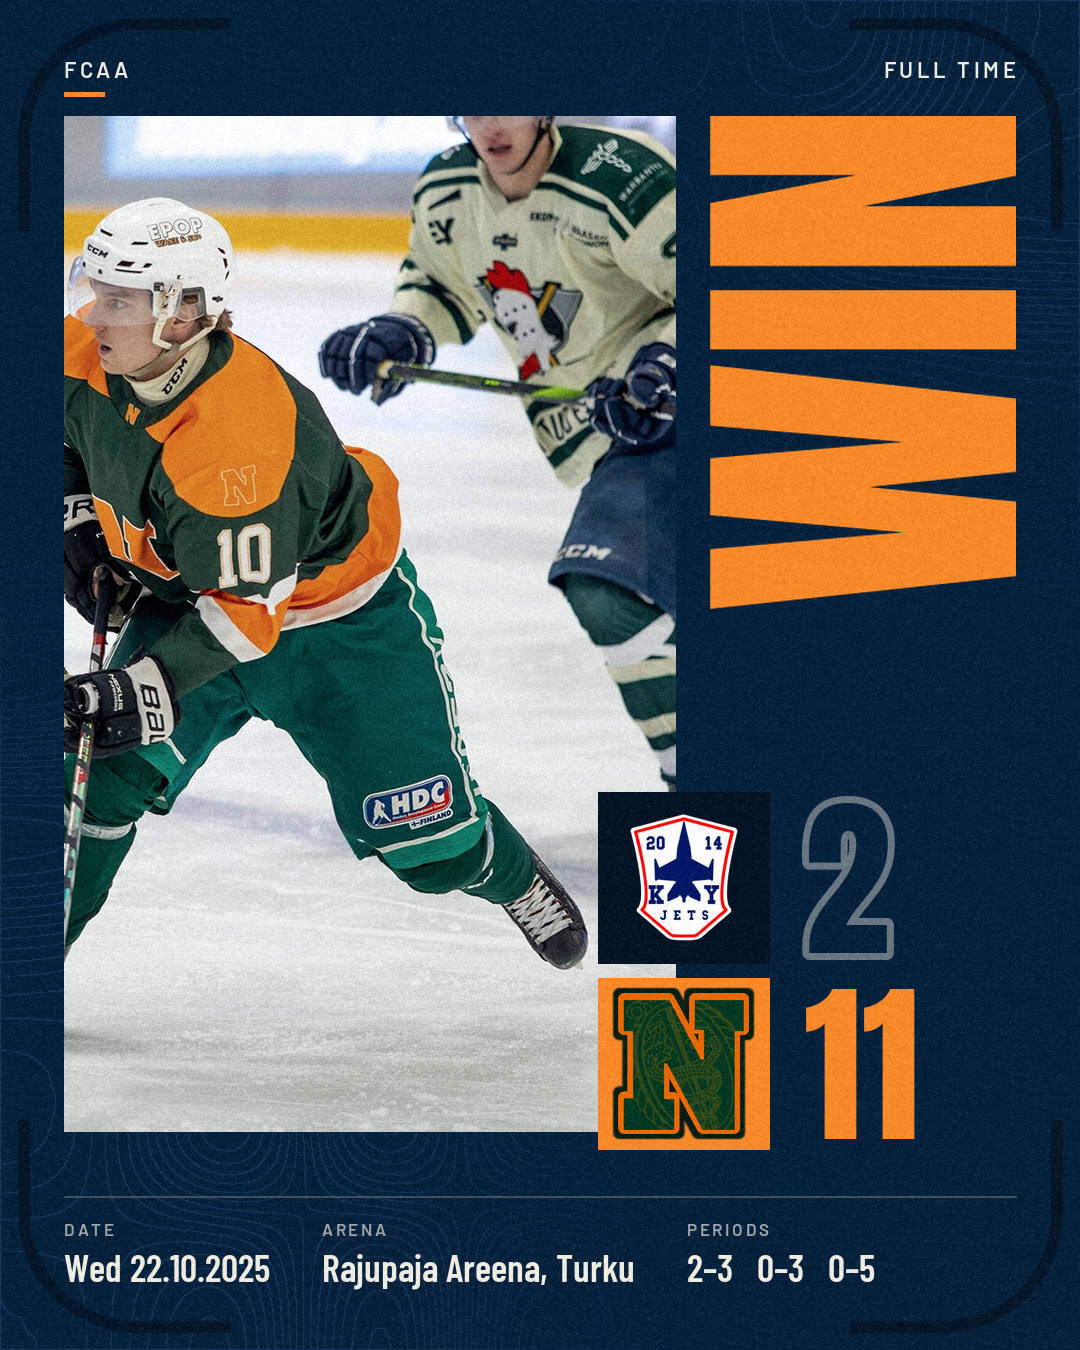
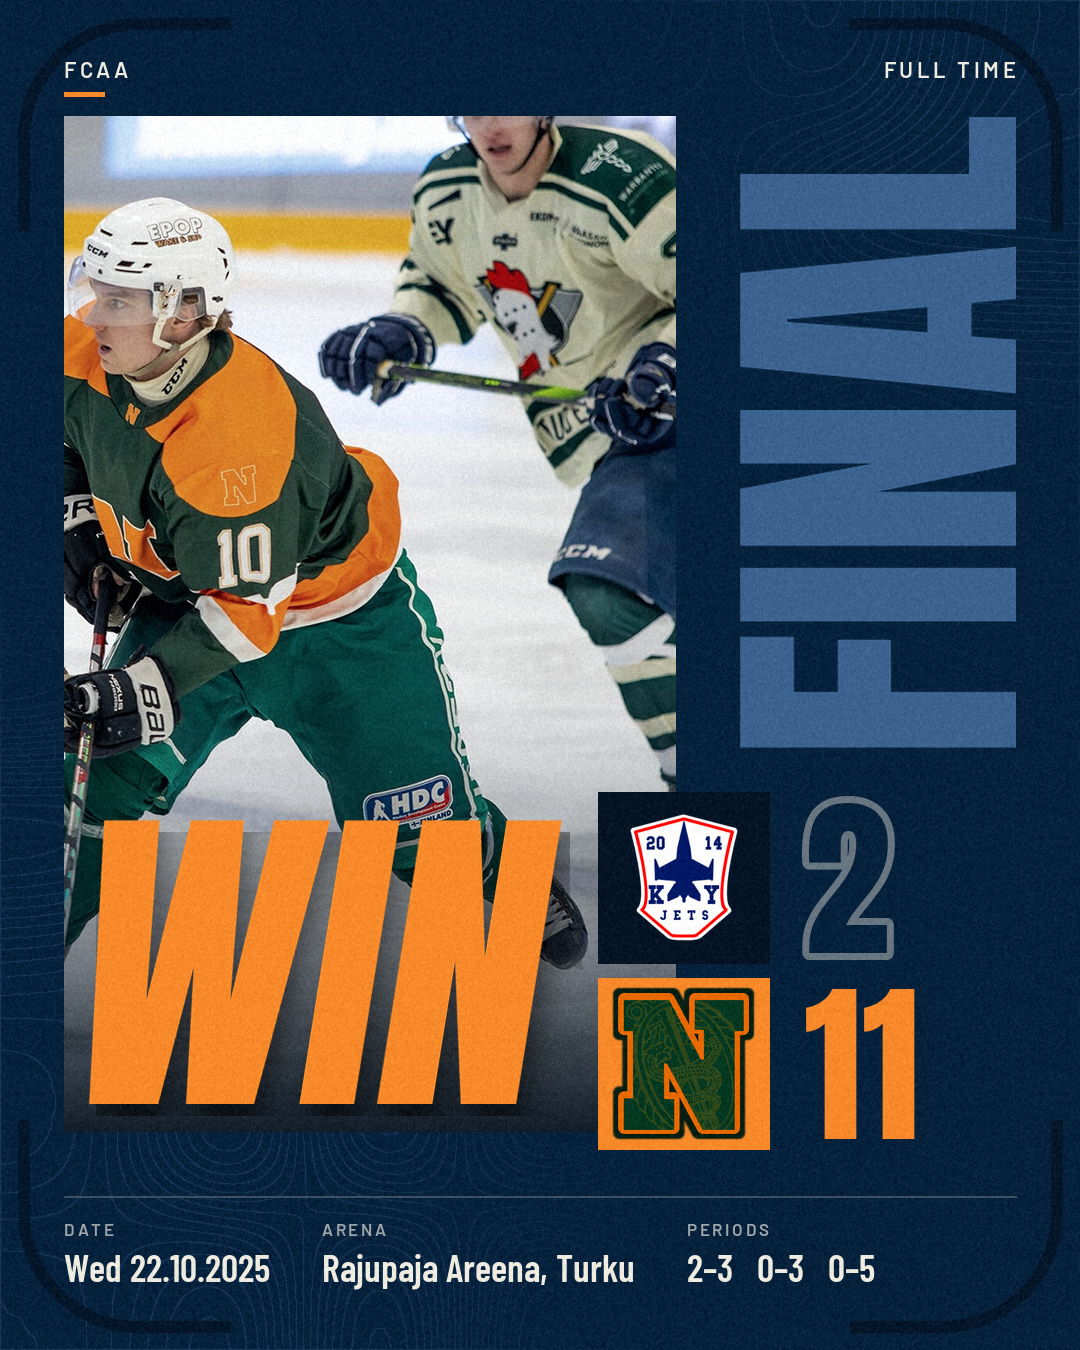
WIN as a big slanted mark across the photo; FINAL stays as the title
Claude-Session: https://claude.ai/code/session_01E3Tk5uwvYhQgExk5yUNRYj

Changed region(s): [[0.6417, 0.0622, 0.9472, 0.56], [0.0611, 0.56, 0.6417, 0.84]]

diff --git a/skills/naadat-game-posts/scripts/render_card.py b/skills/naadat-game-posts/scripts/render_card.py
@@ -16,7 +16,8 @@ Outputs, all 1080x1350 and metadata-free (see clean_image.py):
   always      <out>/photo_credit.txt   the credit of the photo used, nothing else
 
 Look: a club poster. A home game is green, an away game orange (from
-us_side); every FCAA game is FCAA navy. A Näädät win reads WIN, not FINAL.
+us_side); every FCAA game is FCAA navy. A Näädät win adds a big slanted WIN
+across the foot of the photo.
 A graded photo panel on the left, the title set vertically on the
 right, square logo tiles overlapping the photo edge with the scores beside
 them, and a ruled info row at the foot. Anton for display type, Barlow for
@@ -909,6 +910,56 @@ def weekday_title(i, style="short"):
     return (DOW if style == "short" else DOW_LONG)[i]
 
 
+def result_title(img, t, game):
+    """The vertical title: FINAL (+ OT/SO) or LIVE. A Näädät win also gets win_mark."""
+    final = is_final(game)
+    fin = finish_word(game)
+    parts = [("FINAL" if final else "LIVE", t["title"])]
+    if final and fin:
+        parts.append((fin, t["accent"]))
+    vertical_title(img, parts, W - M, PHOTO[1], TILE_Y1 - TITLE_GAP - PHOTO[1], W - M - PHOTO[2] - 34)
+    if final and winner_side(game) == game.get("us_side", "home"):
+        win_mark(img, t)
+
+
+WIN_SKEW = 0.16                      # italic slant of the WIN mark
+
+
+def win_mark(img, t):
+    """A big slanted WIN across the foot of the photo, left of the logo tiles.
+
+    The photo darkens toward its foot so the word reads on bright ice, and the
+    word carries a soft drop shadow."""
+    x0, y0, x1, y1 = PHOTO
+    w, h = x1 - x0, y1 - y0
+    fade = Image.new("L", (w, h), 0)
+    fd = ImageDraw.Draw(fade)
+    reach = 460
+    for i in range(reach):
+        fd.line((0, h - 1 - i, w, h - 1 - i), fill=int(235 * (1 - i / reach) ** 1.3))
+    shade = Image.new("RGBA", (w, h), t["duo_dark"] + (0,))
+    shade.putalpha(fade)
+    img.alpha_composite(shade, (x0, y0))
+
+    f = font("display", 330)
+    l_, t_, r_, b_ = f.getbbox("WIN")
+    pad = 20
+    word = Image.new("RGBA", (r_ - l_ + 2 * pad + int(WIN_SKEW * (b_ - t_)), b_ - t_ + 2 * pad), (0, 0, 0, 0))
+    ImageDraw.Draw(word).text((pad - l_ + int(WIN_SKEW * (b_ - t_)), pad - t_), "WIN", font=f,
+                              fill=t["accent"] + (255,))
+    word = word.transform(word.size, Image.AFFINE, (1, WIN_SKEW, 0, 0, 1, 0), Image.BICUBIC)
+    word = word.crop(word.getbbox())
+    max_w = TILE_X - 24 - x0 - 24
+    if word.width > max_w:
+        k = max_w / word.width
+        word = word.resize((int(word.width * k), int(word.height * k)), LANCZOS)
+    pos = (x0 + 24, y1 - 28 - word.height)
+    shadow = Image.new("RGBA", word.size, (0, 0, 0, 0))
+    shadow.putalpha(word.getchannel("A").filter(ImageFilter.GaussianBlur(14)).point(lambda v: int(v * 0.55)))
+    img.alpha_composite(shadow, (pos[0] + 8, pos[1] + 12))
+    img.alpha_composite(word, pos)
+
+
 # ------------------------------------------------------------------ result card
 
 def result_card(game, photo, focus):
@@ -916,13 +967,7 @@ def result_card(game, photo, focus):
     t = THEMES[theme]
     img = background(theme, 11)
     photo_panel(img, t, photo, focus)
-    final = is_final(game)
-    fin = finish_word(game)
-    won_it = final and winner_side(game) == game.get("us_side", "home")
-    parts = [("WIN" if won_it else ("FINAL" if final else "LIVE"), t["accent"] if won_it else t["title"])]
-    if final and fin:
-        parts.append((fin, t["accent"]))
-    vertical_title(img, parts, W - M, PHOTO[1], TILE_Y1 - TITLE_GAP - PHOTO[1], W - M - PHOTO[2] - 34)
+    result_title(img, t, game)
 
     home, away = game["home"], game["away"]
     hg, ag = goals_of(home), goals_of(away)

diff --git a/skills/naadat-game-posts/SKILL.md b/skills/naadat-game-posts/SKILL.md
@@ -10,7 +10,7 @@ Two kinds of Instagram post for a Näädät game. Every image is feed post size 
 | branch | when | files |
 |---|---|---|
 | **Pre-game** | game day or before: "game day post", "matchday post", "post for tonight's game" | `pregame_feed.jpg`: GAME DAY, photo, both logos, date, face-off time, rink |
-| **Post-game** | after the final horn: "result post", "final score", "recap" | `result_feed.jpg` (slide 1: WIN when Näädät win, otherwise FINAL; photo, both logos, score, date, rink, periods) and `summary_feed.jpg` (slide 2: goal log, shots, power-play goals, goalie saves) |
+| **Post-game** | after the final horn: "result post", "final score", "recap" | `result_feed.jpg` (slide 1: FINAL, photo with a big WIN across it when Näädät win, both logos, score, date, rink, periods) and `summary_feed.jpg` (slide 2: goal log, shots, power-play goals, goalie saves) |
 
 Pick the branch from the user's words. A game still to be played is pre-game; a finished game is post-game. If the request fits neither clearly ("post for the KHK game"), ask which one.
 
@@ -192,7 +192,7 @@ The script picks the photo itself, stepping through the library game by game, an
 
 Opponent logos come from `logo_file` (relative to the folder of `DATA`), then `logo_asset` (a bundled file under `assets/logos/`, set by `fcaa.py`), then `assets/logos/<association_id>.png`, then the results service, then a lettered badge.
 
-**Done when** the script has printed a `wrote` line for every file of your branch (post-game without a goal log: `result_feed.jpg` plus a `note:` that slide 2 was skipped), a `photo:` line, every `note: no logo for <team>, using a lettered badge` and `warning: logo_file ... not found` has been passed to the user so they can send a logo, and you have looked at the first image yourself (`pregame_feed.jpg` or `result_feed.jpg`), checking that every name, number, time and logo is right, the background is green for home and orange for away (navy for FCAA), the title reads WIN for a Näädät win and FINAL otherwise, and nothing is clipped.
+**Done when** the script has printed a `wrote` line for every file of your branch (post-game without a goal log: `result_feed.jpg` plus a `note:` that slide 2 was skipped), a `photo:` line, every `note: no logo for <team>, using a lettered badge` and `warning: logo_file ... not found` has been passed to the user so they can send a logo, and you have looked at the first image yourself (`pregame_feed.jpg` or `result_feed.jpg`), checking that every name, number, time and logo is right, the background is green for home and orange for away (navy for FCAA), a Näädät win shows WIN on the photo, and nothing is clipped.
 
 ### 3. Verify the files are clean
 

diff --git a/README.md b/README.md
@@ -2,7 +2,7 @@
 
 An assistant skill that makes Näädät's Instagram posts around every game. Ask your AI assistant (Claude, Codex, ChatGPT and others) for "the game day post for tonight" or "the result post for last night's game", and you get the finished images plus a caption to copy. Every image is Instagram post size (1080x1350).
 
-Home games get a green post and away games an orange one, automatically; FCAA games use the FCAA navy. When Näädät win, the result post says WIN in big orange letters instead of FINAL. Every post shows a real game photo from the skill's own photo library: you never need to send a photo, and the assistant switches photos from game to game.
+Home games get a green post and away games an orange one, automatically; FCAA games use the FCAA navy. When Näädät win, the result post gets a big slanted orange WIN across the photo. Every post shows a real game photo from the skill's own photo library: you never need to send a photo, and the assistant switches photos from game to game.
 
 **Pre-game post**, for game day:
 
@@ -11,7 +11,7 @@ Home games get a green post and away games an orange one, automatically; FCAA ga
 
 **Post-game post**, after the final horn:
 
-- **Slide 1** (`result_feed.jpg`): WIN (or FINAL after a loss), a game photo, both team logos, the score, date, rink and period scores.
+- **Slide 1** (`result_feed.jpg`): FINAL, a game photo (with a big WIN across it after a win), both team logos, the score, date, rink and period scores.
 - **Slide 2** (`summary_feed.jpg`): every goal with time and assists, shots, power-play goals and goalie saves. Made when the goal log is known.
 - An English caption, ready to copy.
 
